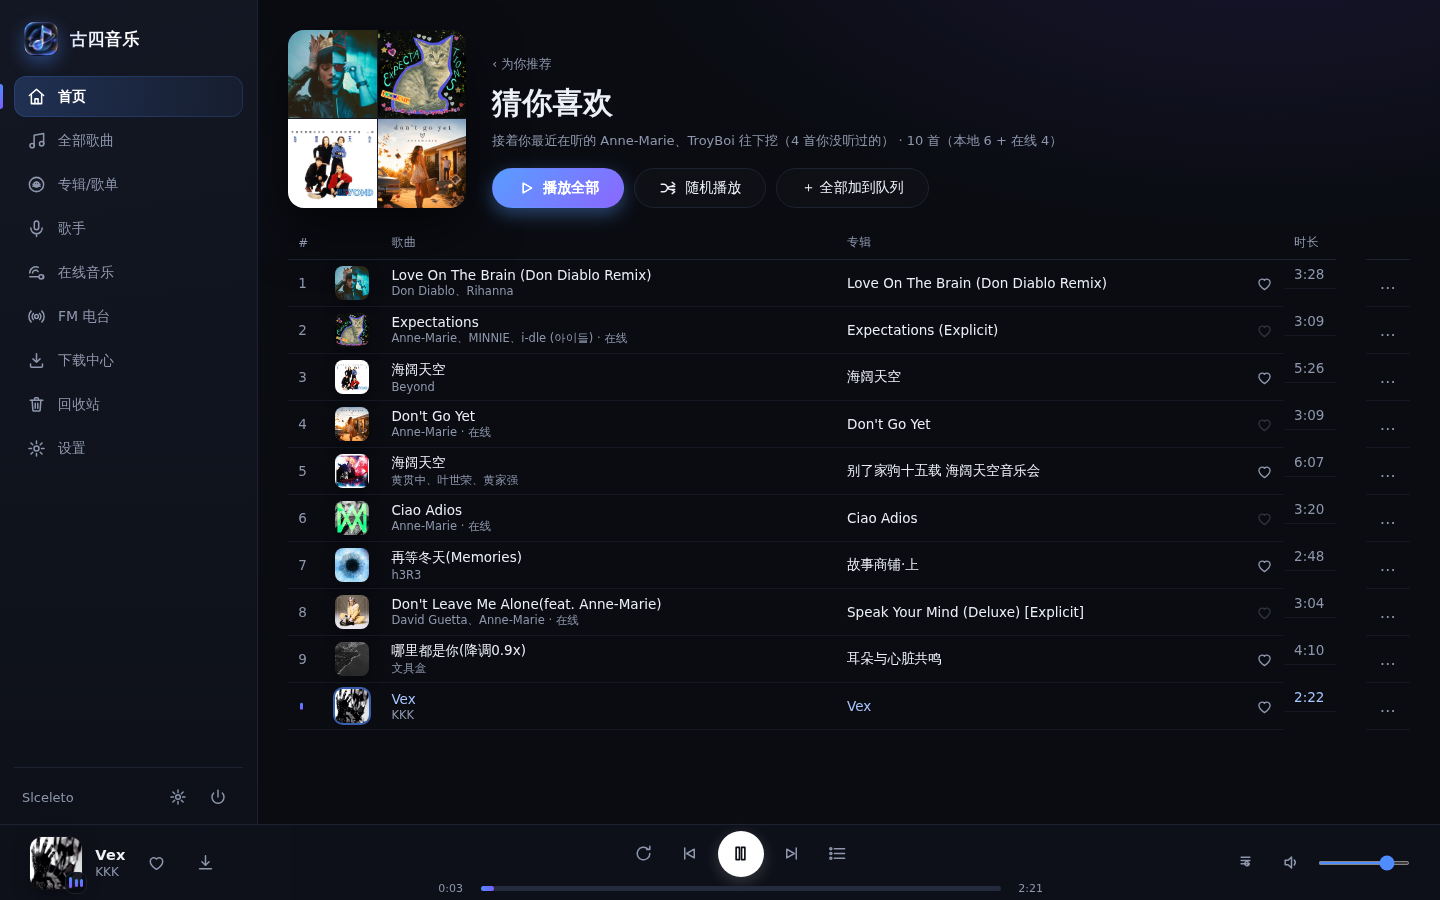
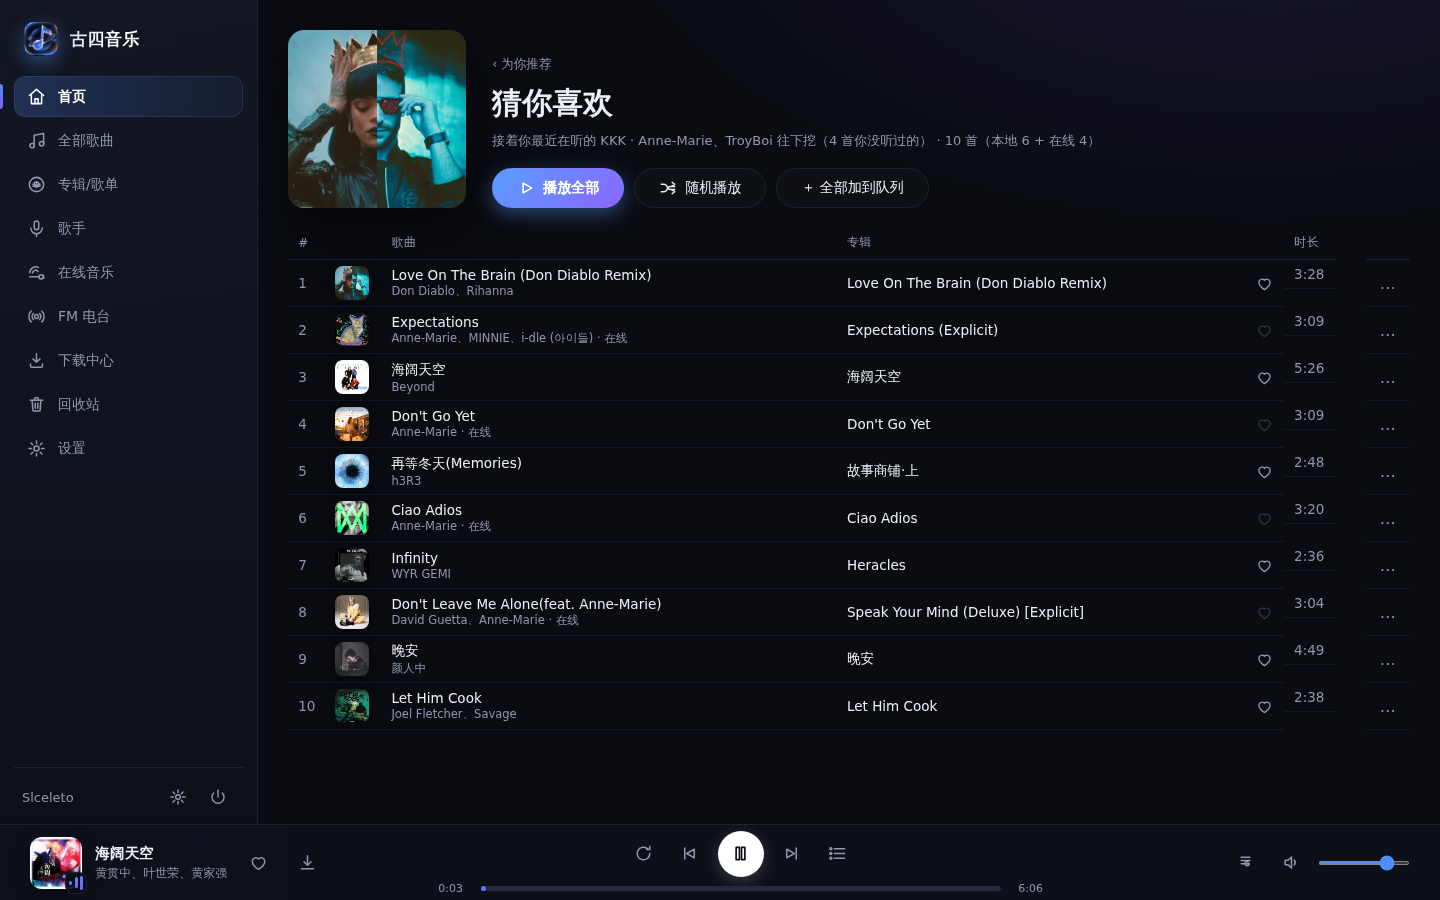
feat(home): 首页统计条下线 + 今日推荐/猜你喜欢封面改单图
- 首页删掉统计条四张卡片（专辑 27 张 / 歌手 22 位 / 全部歌曲 32 首 / 我喜欢 0 首）：
  专辑·歌手·全部歌曲 侧边栏已有，「我喜欢」在「专辑/歌单 → 我的歌单」里，入口不丢
- 为你推荐封面改单图：fyCollage → fyCover，一个格子只放一张图；
  接口仍给候选序列，加载失败按顺序顶替（第一张挂了换下一张），不再退回拼图
- app.css 删掉 .stat-*/.sp-* 与 .fy-cov.one，.fy-cov 固定单列
- e2e-home-foryou.py 29/0 → 34/0：断言统计条已下线 + 入口仍在（侧边栏/我的歌单）、
  每张卡片与详情页封面都只有一张图；并修掉一处脚手架假失败
  （鼠标留在卡片上触发 :hover translateY(-3px)，测量前先把指针移到中性位置）

diff --git a/ui/app/assets/app.js b/ui/app/assets/app.js
@@ -705,27 +705,9 @@
     // 清除骨架屏
     v.querySelectorAll('.sk-wrap').forEach(s => s.remove())
 
-    // 统计条（紧凑：一行四项，图标 + 数字，避免首屏被大卡片占满）
-    const quick = el('div', 'stat-row')
-    const tiles = [
-      { svg: '<svg viewBox="0 0 24 24"><circle cx="12" cy="12" r="9"/><circle cx="12" cy="12" r="2.8"/><path d="M12 9.2v5.6"/></svg>', n: '专辑', s: stats.albums + ' 张', h: '#/albums' },
-      { svg: '<svg viewBox="0 0 24 24"><rect x="9.2" y="2.6" width="5.6" height="11" rx="2.8"/><path d="M4.8 11.5a7.2 7.2 0 0 0 14.4 0"/><path d="M12 18.7V22"/></svg>', n: '歌手', s: stats.artists + ' 位', h: '#/artists' },
-      { svg: '<svg viewBox="0 0 24 24"><path d="M9 18.5V5.5L21 3.2v13"/><circle cx="6.5" cy="18.5" r="2.8"/><circle cx="18.5" cy="16.2" r="2.8"/></svg>', n: '全部歌曲', s: stats.tracks + ' 首', h: '#/tracks' },
-      { svg: '<svg viewBox="0 0 24 24"><path d="M12 20.5s-7.8-5-7.8-10.2A4.4 4.4 0 0 1 12 7.6a4.4 4.4 0 0 1 7.8 2.7C19.8 15.5 12 20.5 12 20.5Z"/></svg>', n: '我喜欢', s: (playlistsCache.find(p => p.id === 'love') || {}).count + ' 首', h: '#/playlist/love' },
-    ]
-    for (const tile of tiles) {
-      const c = el('div', 'stat-pill')
-      const ic = el('div', 'sp-ic')
-      ic.innerHTML = tile.svg
-      const tx = el('div', 'sp-tx')
-      tx.appendChild(el('div', 'sp-n', tile.n))
-      tx.appendChild(el('div', 'sp-s', tile.s))
-      c.appendChild(ic)
-      c.appendChild(tx)
-      c.onclick = () => { location.hash = tile.h }
-      quick.appendChild(c)
-    }
-    v.appendChild(quick)
+    // 统计条（专辑 27 张 / 歌手 22 位 / 全部歌曲 32 首 / 我喜欢 0 首）已按需求下线：
+    // 专辑·歌手·全部歌曲 在侧边栏，「我喜欢」在「专辑/歌单 → 我的歌单」里，
+    // 首屏直接进「为你推荐」更干净。
 
     // 为你推荐：按账户口味生成的两份歌单（今日推荐 / 猜你喜欢）。
     // 这里是「UI 封面」形态 —— 只给封面 + 推荐依据，点开才进详情（#/mix/daily、#/mix/guess）。
@@ -780,20 +762,36 @@
   }
 
   // ---------------- 为你推荐（首页入口卡片 + 详情页） ----------------
-  /** 推荐封面拼图：本地曲目走封面接口、在线曲目走源图，最多 4 张 */
-  function fyCollage(items, cls) {
+  /**
+   * 推荐封面：一个格子只放一张图（本地曲目走封面接口、在线曲目走源图）。
+   * 接口给的是一个候选序列，这里按顺序顶替 —— 第一张挂了（封面文件缺失 / 图床失效）
+   * 就换下一张，界面上始终只有一张图，不会退回占满格子的拼图。
+   */
+  function fyCover(items, cls) {
     const box = el('div', cls || 'fy-cov')
     const list = (items || []).slice(0, 4)
-    if (list.length <= 1) box.classList.add('one')
     if (!list.length) {
       box.appendChild(el('div', 'fy-cov-ph', '♪'))
       return box
     }
-    for (const t of list) {
-      const seed = (t.name || '') + (t.singer || '')
-      if (t.kind === 'online') box.appendChild(picImg(t.pic, null, seed))
-      else box.appendChild(coverImg(t.hasCover ? { id: t.id, hasCover: true } : null, null, seed))
+    const img = el('img')
+    img.alt = ''
+    img.loading = 'lazy'
+    let i = 0
+    const giveUp = () => {
+      if (!img.parentNode) return
+      box.removeChild(img)
+      box.appendChild(el('div', 'fy-cov-ph', '♪'))
     }
+    const swap = () => {
+      const t = list[i]
+      if (!t || (t.kind === 'online' ? !t.pic : !hasCoverOf(t))) { i++; return i < list.length ? swap() : giveUp() }
+      if (t.kind === 'online') img.src = picProxy(t.pic)
+      else img.src = mediaUrl('cover', t.id)
+    }
+    img.onerror = () => { i++; if (i < list.length) swap(); else giveUp() }
+    box.appendChild(img)
+    swap()
     return box
   }
 
@@ -824,7 +822,7 @@
     for (const mix of [d.daily, d.guess]) {
       if (!mix || !(mix.tracks || []).length) continue
       const card = el('div', 'fy-card')
-      card.appendChild(fyCollage(mix.cover))
+      card.appendChild(fyCover(mix.cover))
       const body = el('div', 'fy-body')
       body.appendChild(el('div', 'fy-name', mix.name))
       body.appendChild(el('div', 'fy-reason', mix.reason || ''))
@@ -915,7 +913,7 @@
     const tracks = mix.tracks || []
 
     const hero = el('div', 'fy-hero')
-    hero.appendChild(fyCollage(mix.cover, 'fy-cov big'))
+    hero.appendChild(fyCover(mix.cover, 'fy-cov big'))
     const box = el('div')
     const crumb = el('div', 'crumb', '‹ 为你推荐')
     crumb.onclick = () => { location.hash = '#/home' }

diff --git a/ui/app/assets/app.css b/ui/app/assets/app.css
@@ -785,19 +785,7 @@ img.ph {
   .lf-disc { animation-duration: 60s; }
 }
 
-/* ============ 首页统计条（替代原先占满首屏的大卡片） ============ */
-.stat-row { display: grid; grid-template-columns: repeat(4, minmax(0, 1fr)); gap: 10px; margin-bottom: 16px; }
-.stat-pill { display: flex; align-items: center; gap: 10px; padding: 10px 12px; border-radius: 12px; min-width: 0;
-  background: linear-gradient(180deg, var(--card), #10131d); border: 1px solid var(--line-soft); cursor: pointer;
-  transition: transform .18s ease, border-color .18s; }
-.stat-pill:hover { transform: translateY(-2px); border-color: #2e3648; }
-.sp-ic { width: 34px; height: 34px; border-radius: 10px; flex: 0 0 auto; display: flex; align-items: center; justify-content: center;
-  background: linear-gradient(135deg, rgba(108,124,255,.24), rgba(143,92,249,.2)); color: #a9b4ff; }
-.sp-ic svg { width: 18px; height: 18px; }
-.sp-tx { min-width: 0; }
-.sp-n { font-size: 12px; color: var(--muted); white-space: nowrap; overflow: hidden; text-overflow: ellipsis; }
-.sp-s { font-size: 15px; font-weight: 600; margin-top: 1px; }
-@media (max-width: 760px) { .stat-row { grid-template-columns: repeat(2, minmax(0, 1fr)); } }
+/* 首页统计条（专辑/歌手/全部歌曲/我喜欢）已下线，相关样式一并移除 */
 
 /* ============ 在线音乐：工具栏（音源 chips 与视图 tabs 同行） ============ */
 .onl-tools { display: flex; align-items: center; justify-content: space-between; gap: 12px 18px; flex-wrap: wrap; margin: 0 0 16px; }
@@ -847,9 +835,8 @@ img.ph {
 .fy-card:hover { transform: translateY(-3px); border-color: #2e3648; box-shadow: 0 16px 30px -22px #000; }
 .fy-card:active { transform: translateY(-1px); }
 .fy-card.sk { pointer-events: none; }
-.fy-cov { width: 96px; height: 96px; flex: 0 0 96px; display: grid; grid-template-columns: 1fr 1fr; gap: 1px;
+.fy-cov { width: 96px; height: 96px; flex: 0 0 96px; display: grid; grid-template-columns: 1fr; gap: 1px;
   border-radius: 12px; overflow: hidden; background: #171a24; }
-.fy-cov.one { grid-template-columns: 1fr; }
 .fy-cov img { width: 100%; height: 100%; object-fit: cover; display: block; background: #171a24; }
 .fy-cov-ph { grid-column: 1 / -1; display: flex; align-items: center; justify-content: center; font-size: 30px; color: #39405a; }
 .fy-card.sk .fy-cov { background: linear-gradient(90deg, rgba(255,255,255,.04) 25%, rgba(255,255,255,.09) 37%, rgba(255,255,255,.04) 63%);

diff --git a/server/src/library/for-you.ts b/server/src/library/for-you.ts
@@ -365,7 +365,8 @@ export interface ForYouMix {
   /** 一句话说明推荐依据（首页卡片副标题 / 详情页 meta） */
   reason: string
   updatedAt: number
-  /** 卡片封面拼图用的前几首（本地带 id+hasCover，在线带 pic） */
+  /** 封面候选序列（本地带 id+hasCover，在线带 pic）：UI 一个格子只显示一张，
+   *  多给几个是给加载失败留的兜底 —— 第一张挂了换下一张 */
   cover: MixRow[]
   localCount: number
   onlineCount: number

diff --git a/tools/e2e-home-foryou.py b/tools/e2e-home-foryou.py
@@ -7,8 +7,8 @@
     python3 tools/e2e-home-foryou.py
 
 覆盖：
-  1. 首页只留四张统计条（专辑/歌手/全部歌曲/我喜欢），新入库/热门歌手/最近播放三块已删除
-  2. 「为你推荐」两张入口卡片：UI 封面拼图 + 推荐依据文案 + 数量说明
+  1. 首页统计条（专辑/歌手/全部歌曲/我喜欢）与新入库/热门歌手/最近播放全部不出现，入口留在侧边栏
+  2. 「为你推荐」两张入口卡片：单图封面 + 推荐依据文案 + 数量说明
   3. 点开卡片进详情（#/mix/daily、#/mix/guess）：封面页头 + 混排曲目表 + 播放全部
   4. 详情页播放走正常链路（底栏起播 + 服务端播放历史记到这一首）
   5. 在线行有「在线」标记与「…」菜单（下载到本机 / 保存到云盘）
@@ -97,12 +97,20 @@ def main():
 
         print('\n— 1. 首页结构 —')
         goto(page, '#/home', 1200)
-        pills = page.eval_on_selector_all('.stat-pill .sp-n', 'els => els.map(e => e.textContent.trim())')
-        check('统计条仍是四项（专辑/歌手/全部歌曲/我喜欢）',
-              pills == ['专辑', '歌手', '全部歌曲', '我喜欢'], ' | '.join(pills))
-        subs = page.eval_on_selector_all('.stat-pill .sp-s', 'els => els.map(e => e.textContent.trim())')
-        check('统计数字来自 /api/stats',
-              subs[0] == '%d 张' % stats['albums'] and subs[2] == '%d 首' % stats['tracks'], ' | '.join(subs))
+        check('首页统计条（专辑/歌手/全部歌曲/我喜欢）已下线',
+              page.query_selector('.stat-row') is None and page.query_selector('.stat-pill') is None)
+        check('首页不再出现统计数字（如「%d 张」）' % stats['albums'],
+              ('%d 张' % stats['albums']) not in page.evaluate(VIEW_TEXT))
+        side = page.evaluate("() => document.querySelector('#sidebar').innerText")
+        check('入口没丢：侧边栏仍有 全部歌曲 / 专辑歌单 / 歌手',
+              '全部歌曲' in side and '专辑/歌单' in side and '歌手' in side)
+        goto(page, '#/albums', 1200)
+        page.evaluate("() => [...document.querySelectorAll('#view .tabs button')]"
+                      ".find(t => t.textContent.trim() === '我的歌单').click()")
+        page.wait_for_timeout(1200)
+        check('入口没丢：「专辑/歌单 → 我的歌单」里能找到「我喜欢」',
+              '我喜欢' in page.evaluate(VIEW_TEXT))
+        goto(page, '#/home', 1200)
         body = page.evaluate(VIEW_TEXT)
         for gone in ('新入库', '热门歌手', '最近播放'):
             check('首页已删掉「%s」' % gone, gone not in body)
@@ -124,9 +132,15 @@ def main():
         check('卡片写明数量并提示可点开', all('点开看详情' in m for m in metas), ' | '.join(metas))
         imgs = page.eval_on_selector_all('.foryou-slot .fy-card .fy-cov img',
                                          'els => els.map(e => ({ w: e.naturalWidth, n: e.naturalWidth > 0 }))')
-        check('卡片表面是 UI 封面拼图（真实图片而不是空壳）',
-              len(imgs) >= 2 and sum(1 for i in imgs if i['n']) >= 1,
+        peers = page.eval_on_selector_all('.foryou-slot .fy-card',
+                                          "els => els.map(e => e.querySelectorAll('.fy-cov img').length)")
+        check('每张卡片封面只有一张图（不是拼图）', len(cards) == 2 and peers == [1, 1],
+              'per-card=%s' % peers)
+        check('封面是真图而不是空壳',
+              len(imgs) == 2 and all(i['n'] for i in imgs),
               'imgs=%d loaded=%d' % (len(imgs), sum(1 for i in imgs if i['n'])))
+        check('卡片里没有残留拼图占位符（♪）',
+              page.query_selector('.foryou-slot .fy-cov-ph') is None)
         check('首页推荐区有说明（按账户口味 · 每日更新）', '按本账户的收听习惯生成' in body)
         page.screenshot(path='tools/home-foryou-desktop.png')
 
@@ -136,6 +150,9 @@ def main():
         check('点卡片进入今日推荐详情', page.evaluate('() => location.hash') == '#/mix/daily',
               page.evaluate('() => location.hash'))
         check('详情页有封面页头', page.query_selector('.fy-hero .fy-cov.big') is not None)
+        check('详情页封面也只有一张图',
+              page.eval_on_selector_all('.fy-hero .fy-cov.big img', 'els => els.length') == 1,
+              'imgs=%s' % page.eval_on_selector_all('.fy-hero .fy-cov.big img', 'els => els.length'))
         h2 = page.eval_on_selector('.fy-hero h2', 'e => e.textContent.trim()')
         check('详情页标题 = 今日推荐', h2 == '今日推荐', h2)
         rows = page.query_selector_all('.fy-hero ~ table.tracks tbody tr.row')
@@ -206,6 +223,10 @@ def main():
 
         print('\n— 7. 桌面并排 —')
         goto(page, '#/home', 2000)
+        # 鼠标必须停在中性位置：.fy-card:hover 有 translateY(-3px)，
+        # 前面点过卡片、指针留在第一张上会让两张卡 top 差 3px（脚手架假失败）
+        page.mouse.move(4, 4)
+        page.wait_for_timeout(300)
         try:
             page.wait_for_selector('.foryou-slot .fy-card', timeout=25000)
         except Exception:
